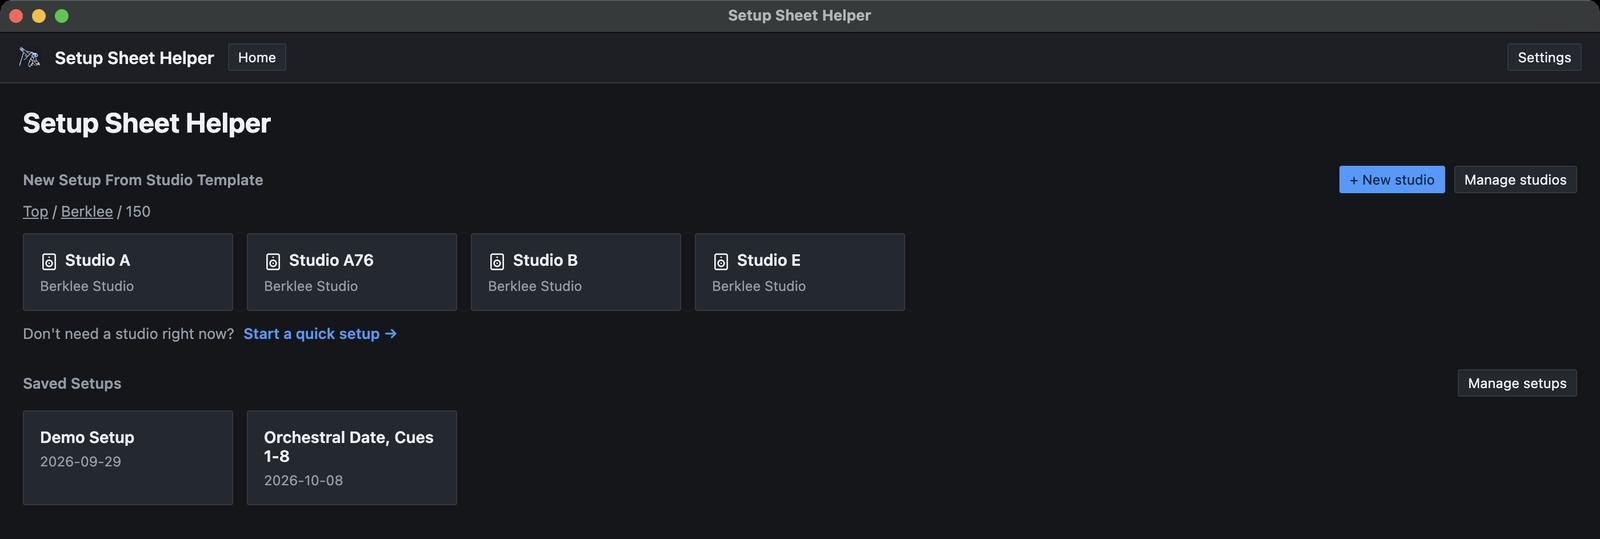
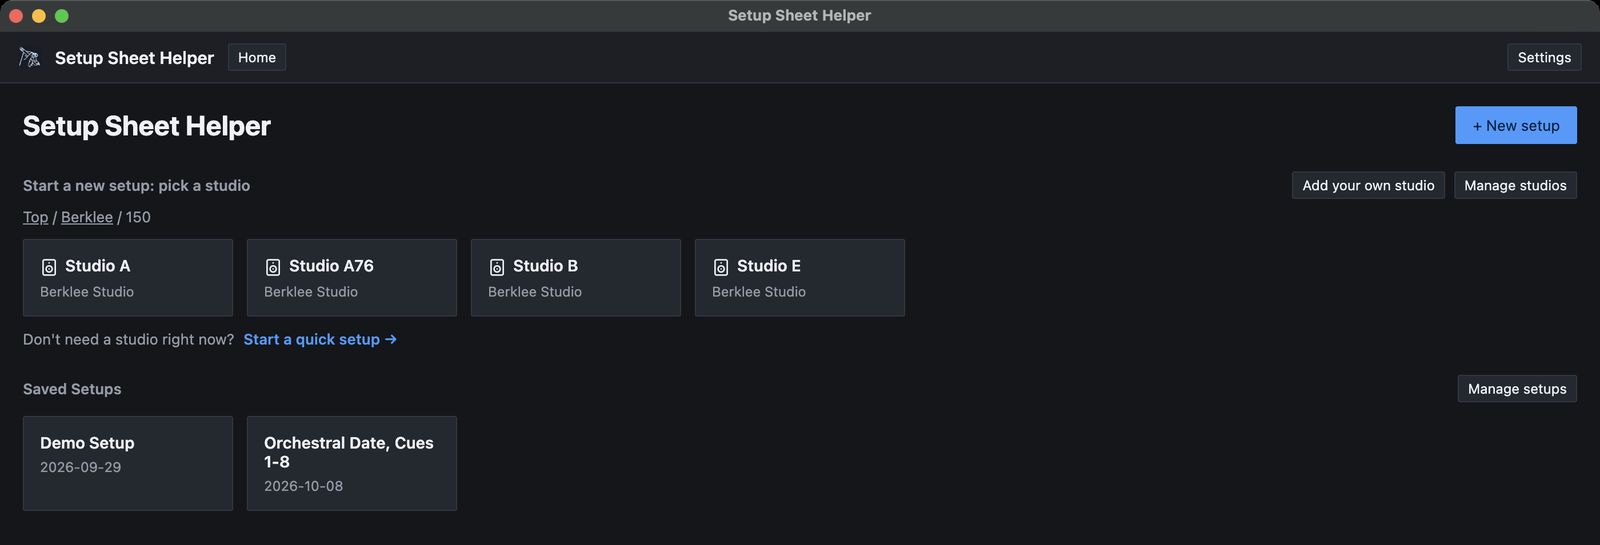
Manual for 1.23.0: New setup picker, Berklee note, preset pairs, cable list order

diff --git a/manual-power-features.html b/manual-power-features.html
@@ -121,10 +121,11 @@
       <img src="assets/manual/faster-save-preset.png" alt="The Save channel preset dialog for 4 selected rows, named Overheads and piano, with an optional description, Fields to include chips with Mic, Outboard and Preamp turned on and the rest off, a folder picker, and Cancel and Save preset." loading="lazy" />
     </figure>
     <p>Presets keep one outboard unit per row. If a row uses more than one outboard column, only the first is saved.</p>
+    <p>A linked stereo pair stays linked in the preset when you save both of its rows. Presets saved before version 1.23.0 don't remember their pairs, so save them again to keep the link.</p>
     <h3>Loading a preset</h3>
     <p>Click <span class="manual-ui">Presets</span> in the toolbar and choose <span class="manual-ui">Load preset…</span>. Browse the folders or type in <span class="manual-ui">Search presets</span>, then double-click a preset or select it and click <span class="manual-ui">Load</span>.</p>
     <p>The preset's rows are added to the end of the sheet. Nothing already there is replaced.</p>
-    <p>Gear is matched by name against the studio you're in. If this studio doesn't have a model the preset names, that cell is left empty and shows a <span class="manual-ui">Preset expected:</span> badge with the missing model's name, so you know what to swap in.</p>
+    <p>Gear is matched by name against the studio you're in. If this studio doesn't have a model the preset names, that cell is left empty and shows a <span class="manual-ui">Preset expected:</span> badge with the missing model's name, so you know what to swap in. On a linked pair, a mic you pick is copied to the other row when the studio has two of it, and both badges clear.</p>
     <h3>Managing presets</h3>
     <p>Choose <span class="manual-ui">Presets → Manage presets…</span>, or <span class="manual-ui">Manage channel presets…</span> in <span class="manual-ui">Settings → General</span>. You can file presets in folders, drag them into order, change a name or description with <span class="manual-ui">Edit</span>, and delete one or several at once. It works like the other managers in <a href="manual-organizing.html#managers">Part 9</a>.</p>
 
@@ -135,7 +136,7 @@
       <li><strong>Kept:</strong> the source names in their order, which columns are shown and in what order, the number of outboard columns, and your export column choices.</li>
       <li><strong>Cleared:</strong> mics, 48V, outboard, preamps, channels, tie lines, cue boxes, polarity, notes, row colors and stereo links. The floor plan and patch cables aren't saved either.</li>
     </ul>
-    <p>The template appears under <span class="manual-ui">New Setup From Studio Template</span> on the home screen as a card labeled <span class="manual-ui">Gear list</span>. Click it and a new setup opens straight away with those rows, named after the template and dated today. Rename it in the header.</p>
+    <p>The template appears under <span class="manual-ui">Start a new setup: pick a studio</span> on the home screen as a card labeled <span class="manual-ui">Gear list</span>. Click it and a new setup opens straight away with those rows, named after the template and dated today. Rename it in the header.</p>
     <div class="manual-aside">
       <span class="manual-aside-title">Tip</span>
       <p>A template belongs to the studio of the setup you saved it from. Deleting that studio deletes its templates too.</p>

diff --git a/manual-quick-start.html b/manual-quick-start.html
@@ -124,11 +124,15 @@
     <ol class="manual-steps">
       <li>
         <h3>Pick a studio</h3>
-        <p>On the home screen, the studios you can start from are under <span class="manual-ui">New Setup From Studio Template</span>. Click one. Berklee's rooms are inside the <span class="manual-ui">Berklee</span> folder, grouped by building.</p>
+        <p>Click <span class="manual-ui">+ New setup</span> at the top right of the home screen. The <span class="manual-ui">Choose a studio</span> list shows every studio you can start from: the ones you used most recently, Berklee's rooms grouped by building, your own studios, and <span class="manual-ui">Quick setup</span> for a sheet with no studio. Type in <span class="manual-ui">Search studios</span> to narrow it down, then click a studio.</p>
         <figure class="manual-shot">
-          <img src="assets/manual/quick-start-home.png" alt="The home screen, with a Berklee folder and The Record Co Studio A under New Setup From Studio Template, and two saved setups below." loading="lazy" />
+          <img src="assets/manual/quick-start-home.png" alt="The home screen in the Blocks layout: a + New setup button at the top right, a Berklee folder and The Record Co Studio A under Start a new setup: pick a studio, with Add your own studio and Manage studios buttons, the Start a quick setup link, and two saved setups below." loading="lazy" />
           <figcaption>Studios at the top, your saved setups underneath.</figcaption>
         </figure>
+        <figure class="manual-shot is-dialog">
+          <img src="assets/manual/quick-start-new-setup-picker.png" alt="The Choose a studio dialog: a Search studios box, then Recent with Studio 2 and The Record Co Studio A, Berklee · 150 with Studio A, Studio A76, Studio B and Studio E, Berklee · 160 with Studio 1, Studio 2 and Studio 3, Your studios with The Record Co Studio A, No studio with Quick setup described as Empty sheet, no gear list, and a Cancel button." loading="lazy" />
+        </figure>
+        <p>You can also click a studio straight from the home screen, under <span class="manual-ui">Start a new setup: pick a studio</span>. Berklee's rooms are inside the <span class="manual-ui">Berklee</span> folder.</p>
       </li>
       <li>
         <h3>Name the setup</h3>
@@ -175,7 +179,7 @@
     </ol>
 
     <h2 id="quick-setup">No studio yet?</h2>
-    <p>Click <span class="manual-ui">Start a quick setup →</span> on the home screen. You get a setup with no studio behind it. The gear cells become plain text boxes that suggest names as you type, drawn from every studio in the app.</p>
+    <p>Click <span class="manual-ui">Start a quick setup →</span> on the home screen, or choose <span class="manual-ui">Quick setup</span> at the bottom of the <span class="manual-ui">+ New setup</span> list. You get a setup with no studio behind it. The gear cells become plain text boxes that suggest names as you type, drawn from every studio in the app.</p>
     <p>A quick setup is good for a one-off session. For a room you work in often, set the studio up once and every new setup starts with its gear ready.</p>
 
     <h2 id="editor-tour">A tour of the editor</h2>

diff --git a/manual-organizing.html b/manual-organizing.html
@@ -98,14 +98,14 @@
     <p class="lede">After a few months you'll have a lot of setups, and maybe several rooms. This part covers the home screen, how to change its layout, and how to file, reorder and delete things with folders and the Manage dialogs.</p>
 
     <h2 id="home-screen">The home screen</h2>
-    <p>The home screen has two sections.</p>
+    <p>The home screen has a <span class="manual-ui">+ New setup</span> button at the top right, which lists every studio you can start from (<a href="manual-quick-start.html#first-setup">Part 1</a> shows it), and two sections.</p>
     <ul>
-      <li><strong><span class="manual-ui">New Setup From Studio Template</span></strong> is where new setups start. It lists your studios (labeled <span class="manual-ui">Studio</span>), any templates you've saved (labeled <span class="manual-ui">Gear list</span>), and the <span class="manual-ui">Berklee</span> folder if Berklee features are on. Its header has <span class="manual-ui">+ New studio</span> and <span class="manual-ui">Manage studios</span>.</li>
+      <li><strong><span class="manual-ui">Start a new setup: pick a studio</span></strong> is where new setups start. It lists your studios (labeled <span class="manual-ui">Studio</span>), any templates you've saved (labeled <span class="manual-ui">Gear list</span>), and the <span class="manual-ui">Berklee</span> folder if Berklee features are on. Its header has <span class="manual-ui">Add your own studio</span> and <span class="manual-ui">Manage studios</span>.</li>
       <li><strong><span class="manual-ui">Saved Setups</span></strong> lists the setups you've made, each with its session date, or <span class="manual-ui">no date</span>. Click one to open it. Its header has <span class="manual-ui">Manage setups</span>.</li>
     </ul>
     <p>Between the two is <span class="manual-ui">Start a quick setup →</span>, for a one-off sheet with no studio behind it. <a href="manual-quick-start.html#quick-setup">Part 1</a> explains it.</p>
     <figure class="manual-shot">
-      <img src="assets/manual/quick-start-home.png" alt="The home screen in the Blocks layout: a Berklee folder and The Record Co Studio A under New Setup From Studio Template, the Start a quick setup link, and two saved setups below." loading="lazy" />
+      <img src="assets/manual/quick-start-home.png" alt="The home screen in the Blocks layout: a + New setup button at the top right, a Berklee folder and The Record Co Studio A under Start a new setup: pick a studio, with Add your own studio and Manage studios buttons, the Start a quick setup link, and two saved setups below." loading="lazy" />
       <figcaption>The home screen in the Blocks layout.</figcaption>
     </figure>
     <p>Studios and setups each have their own folders. A folder you make for studios only appears in the top section, and a folder for setups only appears under <span class="manual-ui">Saved Setups</span>. Channel presets have a third set of folders of their own.</p>

diff --git a/manual-studios.html b/manual-studios.html
@@ -114,7 +114,7 @@
     <ol class="manual-steps">
       <li>
         <h3>Open the studio editor</h3>
-        <p>On the home screen, click <span class="manual-ui">+ New studio</span> beside <span class="manual-ui">New Setup From Studio Template</span>. If you have no studios yet, the section shows <span class="manual-ui">Set up your studio once, reuse it every session</span> with its own <span class="manual-ui">+ New studio</span> button.</p>
+        <p>On the home screen, click <span class="manual-ui">Add your own studio</span> beside <span class="manual-ui">Start a new setup: pick a studio</span>. If you have no studios yet, the section shows <span class="manual-ui">Set up your studio once, reuse it every session</span> with a <span class="manual-ui">+ New studio</span> button that does the same.</p>
       </li>
       <li>
         <h3>Name the room</h3>
@@ -233,7 +233,7 @@
     <figure class="manual-shot">
       <img src="assets/manual/studio-browse-online.png" alt="The Browse studios screen in Settings: a search box, then a Boston group listing The Record Co Studio A marked Already imported, The Record Co Studio B and The Record Co Studio C/D, each with mic, outboard and preamp counts, room layout, no patchbay and size. The footer reads Nothing selected, with Back and Download buttons." loading="lazy" />
     </figure>
-    <p>Imported rooms appear under <span class="manual-ui">New Setup From Studio Template</span> like any studio you made yourself, and you can edit them. You can also browse the same rooms on this website's <a href="studio-downloads.html">Studio Downloads</a> page. <a href="manual-sharing.html">Part 12</a> covers studio files.</p>
+    <p>Imported rooms appear under <span class="manual-ui">Start a new setup: pick a studio</span> like any studio you made yourself, and you can edit them. You can also browse the same rooms on this website's <a href="studio-downloads.html">Studio Downloads</a> page. <a href="manual-sharing.html">Part 12</a> covers studio files.</p>
 
     <h2 id="room-layout">The studio's room layout</h2>
     <p>The <span class="manual-ui">Room layout</span> section in the editor's left rail holds the floor plan every setup in this studio uses.</p>

diff --git a/manual-berklee.html b/manual-berklee.html
@@ -125,7 +125,12 @@
     </ol>
 
     <h2 id="finding-rooms">Finding a Berklee room</h2>
-    <p>On the home screen, Berklee's rooms live in a <span class="manual-ui">Berklee</span> folder under <span class="manual-ui">New Setup From Studio Template</span>. Open it to see one folder per building.</p>
+    <p>On the home screen, Berklee's rooms live in a <span class="manual-ui">Berklee</span> folder under <span class="manual-ui">Start a new setup: pick a studio</span>. Open it to see one folder per building. To skip the folders, click <span class="manual-ui">+ New setup</span> and pick the room from the list instead.</p>
+    <p>If you pre-loaded Berklee when the app first opened, a <span class="manual-ui">Berklee studios are loaded</span> note at the top of the home screen points the way. It goes away when you click <span class="manual-ui">Got it</span> or make your first setup.</p>
+    <figure class="manual-shot">
+      <img src="assets/manual/berklee-home-hint.png" alt="The home screen with a blue-outlined note under the + New setup button. It reads Berklee studios are loaded, To start a setup, click New setup and pick the studio you're working in, or open the Berklee folder below. Your setup starts with that room's gear, and has a Got it button. Below it are the Berklee folder and The Record Co Studio A." loading="lazy" />
+      <figcaption>The note shown after pre-loading Berklee.</figcaption>
+    </figure>
     <figure class="manual-shot">
       <img src="assets/manual/berklee-folder.png" alt="The home screen inside the Berklee folder, with the breadcrumb Top / Berklee and two building folders, 150 and 160." loading="lazy" />
       <figcaption>The Berklee folder holds one folder per building.</figcaption>
@@ -177,7 +182,7 @@
     <ol class="manual-steps">
       <li>
         <h3>Create a studio</h3>
-        <p>Click <span class="manual-ui">+ New studio</span> on the home screen and give it a name.</p>
+        <p>Click <span class="manual-ui">Add your own studio</span> on the home screen and give it a name.</p>
       </li>
       <li>
         <h3>Copy the Berklee room's gear</h3>

diff --git a/manual-patchbay.html b/manual-patchbay.html
@@ -170,7 +170,7 @@
     <p>Switch on <span class="manual-ui">Patchbay</span> in the <span class="manual-ui">Export to PDF</span> dialog. The switch only appears when the studio has a patchbay drawing. The PDF then ends with:</p>
     <ul>
       <li><strong>The drawing</strong> with your cables on it, on a page of its own at the drawing's real size. A large patchbay drawing makes a large page, so print it scaled to fit.</li>
-      <li><strong>A list called Patch cables</strong>, with one row per cable: its number, where it starts, where it ends and its color. Rows are grouped under the name of the strip each cable starts on. An end that isn't on a jack reads <span class="manual-ui">Unlabeled point</span>.</li>
+      <li><strong>A list called Patch cables</strong>, with one row per cable: its number, its two ends and its color. Each cable reads from its higher end, or its left end when both ends are on one row, whichever end you started dragging from. Rows are grouped under the name of the strip that end is on. An end that isn't on a jack reads <span class="manual-ui">Unlabeled point</span>.</li>
     </ul>
     <p>With <span class="manual-ui">Colored</span> off, the drawing and cables print in gray, and the list still names each cable's color. The spreadsheet export has a <span class="manual-ui">Patchbay</span> switch too. <a href="manual-exporting.html">Part 3</a> covers both.</p>
 

diff --git a/manual-help.html b/manual-help.html
@@ -198,7 +198,7 @@
       <dd>A room and the gear in it: mics, outboard, preamps, a room layout and a patchbay drawing. Every setup starts from a studio, and the gear pickers offer that studio's gear.</dd>
 
       <dt>Studio template / gear list</dt>
-      <dd>A reusable starting point saved from a setup with <span class="manual-ui">Save as Studio…</span> (<kbd>⌘</kbd><kbd>⇧</kbd><kbd>S</kbd>). It keeps the row list and column layout with the gear cleared, and appears as a <span class="manual-ui">Gear list</span> card under New Setup From Studio Template.</dd>
+      <dd>A reusable starting point saved from a setup with <span class="manual-ui">Save as Studio…</span> (<kbd>⌘</kbd><kbd>⇧</kbd><kbd>S</kbd>). It keeps the row list and column layout with the gear cleared, and appears as a <span class="manual-ui">Gear list</span> card under <span class="manual-ui">Start a new setup: pick a studio</span>.</dd>
 
       <dt>Source</dt>
       <dd>Anything you're recording on its own channel, such as Kick In or Lead Vocal. Each source is one row of the setup sheet.</dd>

diff --git a/manual-table-mode.html b/manual-table-mode.html
@@ -254,7 +254,7 @@
       <dt><span class="manual-ui">duplicate tie line</span></dt>
       <dd>Two or more rows share the same tie line. Capitals and spaces don't count, so <em>pb1</em> and <em>PB1</em> clash. The warning shows on every row involved. Change one of them and it goes away. If you export anyway, the PDF puts a "!" in front of those tie lines so the clash is easy to spot on paper.</dd>
       <dt><span class="manual-ui">Preset expected: …</span></dt>
-      <dd>You loaded a channel preset that names gear this studio doesn't have, such as <em>Preset expected: U 47 FET</em>. The row is added with that cell left empty. Pick something from the picker and the warning clears.</dd>
+      <dd>You loaded a channel preset that names gear this studio doesn't have, such as <em>Preset expected: U 47 FET</em>. The row is added with that cell left empty. Pick something from the picker and the warning clears. On a linked pair, gear copied to the other row clears its warning too.</dd>
     </dl>
 
     <h2 id="undo-and-saving">Undo and saving</h2>

diff --git a/manual-sharing.html b/manual-sharing.html
@@ -146,7 +146,7 @@
         <p>The button names how many you've chosen, such as <span class="manual-ui">Import 2 studios</span>. Back on the tab, a message lists what was imported.</p>
       </li>
     </ol>
-    <p>Imported studios land under <span class="manual-ui">New Setup From Studio Template</span> as custom studios, alongside the ones you already had. You can edit them like any other studio.</p>
+    <p>Imported studios land under <span class="manual-ui">Start a new setup: pick a studio</span> as custom studios, alongside the ones you already had. You can edit them like any other studio.</p>
 
     <h3>Studios you already have</h3>
     <p>If a studio in the file has the same name as one of yours, it's marked <span class="manual-ui">Already imported</span> and starts unticked, so re-importing a file never duplicates rooms by accident. You have two choices:</p>
